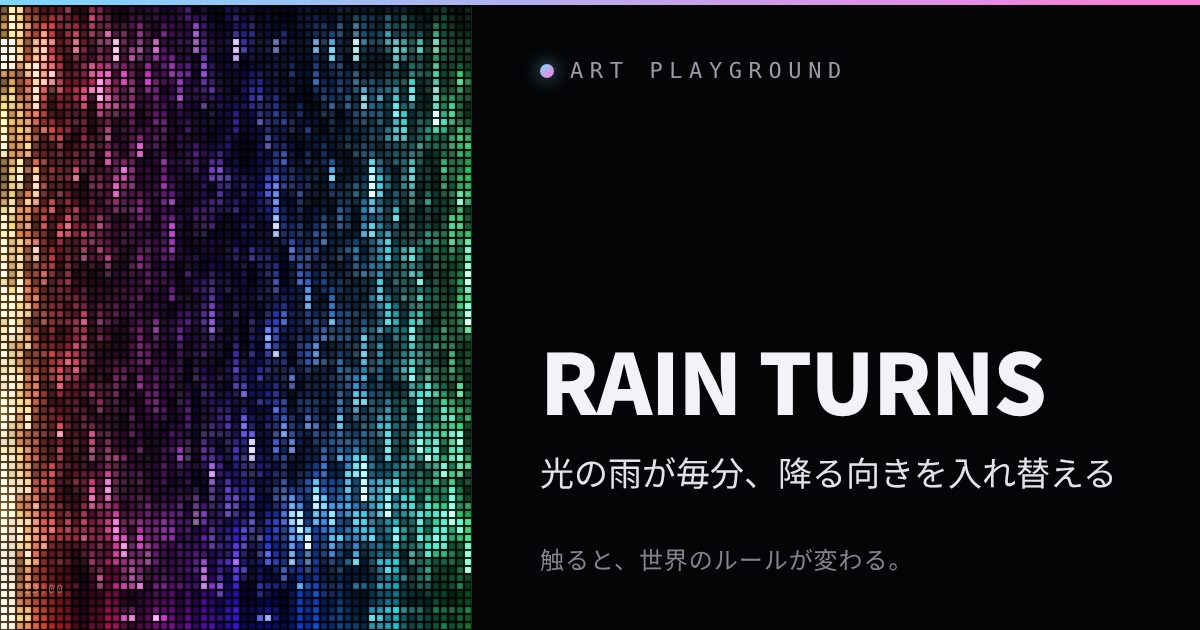
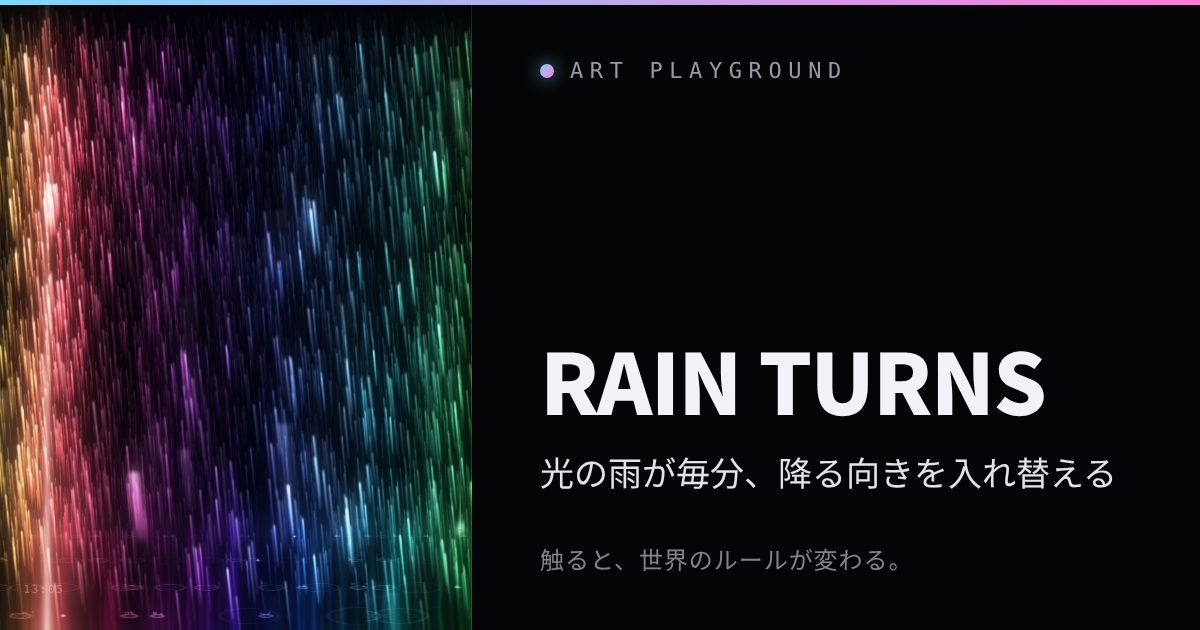
RAIN TURNS: dual mode with XXL/huge back cells over small or original front
?cell=dual&back=16|24&front=2|0. Removed the 12px-back variant.

Claude-Session: https://claude.ai/code/session_019C65K2NCmDDLr2MsA9MRnb

Changed region(s): [[0.0, 0.0, 0.4008, 1.0]]

diff --git a/art-v128-rain-turns.html b/art-v128-rain-turns.html
@@ -224,10 +224,10 @@ FS_HEAD+'uniform sampler2D u_a,u_b,u_c,u_m,u_l,u_l2;uniform vec2 u_inv;uniform f
 '   vq=vq*(1.-.45*min(1.,line+tick))+tc;}\n'+
 '  float glow=exp(-dot(f,f)*7.)*.35;\n'+                                          // 一粒ずつのにじみ
 '  c=vq*(led*1.6+glow)*seam+vec3(off*.8,off*.85,off)+texture(u_b,uv).rgb*.45+texture(u_c,uv).rgb*.6;\n'+
-'  if(u_dual>.5){vec2 cid2=floor(gl_FragCoord.xy/u_cell2);vec2 f2=fract(gl_FragCoord.xy/u_cell2)-.5;vec3 v2=texelFetch(u_l2,ivec2(cid2),0).rgb;\n'+
+' }else{float mk=smoothstep(.25,.6,texture(u_m,uv).r)*u_mk;vec3 a=texture(u_a,uv).rgb;float lm=max(max(a.r,a.g),a.b);c=mix(a,vec3(1.,.82,.45)*lm*1.35,mk)+texture(u_b,uv).rgb*.55+texture(u_c,uv).rgb*.8;}\n'+
+' if(u_dual>.5){vec2 cid2=floor(gl_FragCoord.xy/u_cell2);vec2 f2=fract(gl_FragCoord.xy/u_cell2)-.5;vec3 v2=texelFetch(u_l2,ivec2(cid2),0).rgb;\n'+
 '   float d2=max(abs(f2.x),abs(f2.y))*2.;float led2=smoothstep(.86,.62,d2)*(1.+.35*(1.-length(f2)*2.));float glow2=exp(-dot(f2,f2)*7.)*.35;\n'+
 '   vec3 back=v2*(led2*1.6+glow2)*.7;float fl=max(max(c.r,c.g),c.b);c+=back*(1.-clamp(fl*1.3,0.,1.));}\n'+
-' }else{float mk=smoothstep(.25,.6,texture(u_m,uv).r)*u_mk;vec3 a=texture(u_a,uv).rgb;float lm=max(max(a.r,a.g),a.b);c=mix(a,vec3(1.,.82,.45)*lm*1.35,mk)+texture(u_b,uv).rgb*.55+texture(u_c,uv).rgb*.8;}\n'+
 ' c=c/(1.+max(c-.8,0.)*.8);o=vec4(c,1.);}');
 // ---------- LEDの粒ごとの明るさ(1粒=1テクセル)。粒の中を9点で拾って平均と最大の間をとり、前のコマから滑らかにつなぐ(点くときは素早く、消えるときは少し残光) ----------
 var cellP=prog('#version 300 es\nlayout(location=0) in vec2 p;void main(){gl_Position=vec4(p,0.,1.);}',
@@ -329,7 +329,8 @@ function resize(){var s=dpr*qscale;W=Math.max(2,Math.round(innerWidth*s));H=Math
 addEventListener('resize',resize);resize();
 
 var hueBlk=null,hueT=0,hueV=0,rDir=1,rPh=0,phV=0,phH=0,dirV=1,dirH=1,wH=0,preV=0;var LED=Q.get('led')!=='0';
-var GRAIN=[8.4,12,16,24,4.2,2.1,0,2.1],GNAME=['LEDの粒: 大(約8px)','LEDの粒: 特大(約12px)','LEDの粒: 超特大(約16px)','LEDの粒: 巨大(約24px)','LEDの粒: 中(約4px)','LEDの粒: 小(約2px)','LEDなし(元の描き方)','LEDの粒: 奥=特大(約12px)・前=小(約2px)'],gi=0;   // 2026/11/28「あえて大きくした方がインパクトある」→ 既定は大   // 粒の大きさの見比べ(?cell=4/8/2/0 か下の▦ボタン)
+var GRAIN=[8.4,12,16,24,4.2,2.1,0,2.1],GNAME=['LEDの粒: 大(約8px)','LEDの粒: 特大(約12px)','LEDの粒: 超特大(約16px)','LEDの粒: 巨大(約24px)','LEDの粒: 中(約4px)','LEDの粒: 小(約2px)','LEDなし(元の描き方)','LEDの粒: 奥=超特大/巨大・前=小か元'],gi=0;   // 2026/11/28「あえて大きくした方がインパクトある」→ 既定は大   // 粒の大きさの見比べ(?cell=4/8/2/0 か下の▦ボタン)
+var dualBack=[16,24].indexOf(+Q.get('back'))>=0?+Q.get('back'):16,dualFront=Q.get('front')==='0'?0:2;   // 二重表示(?cell=dual)の奥の粒の大きさと、前(2=小・0=元)
 var gAuto=true,gOff=0,AUTO_G=[0,1,2,3,5,6];   // 2026/11/28「7分一周はいかんなー」→ 中(4px)を外して6分で1周(1時間でちょうど10周、毎時0分は大から)   // 2026/11/28「2と元も入れてよ」→ 小(2px)とLEDなしも順番に入れる
    // 2026/11/28「1分おきに大きさを自動で変更にして」→ 毎分、大→特大→超特大→巨大→中 の順に粒が変わる(▦で順番を1つ進める)
 (function(){var c=Q.get('cell');if(c!==null){var k={'8':0,'12':1,'16':2,'24':3,'4':4,'2':5,'0':6,'dual':7}[c];if(k!==undefined){gi=k;gAuto=false;}}})();   // LEDパネル表示(?led=0 で元の描き方)
@@ -384,16 +385,17 @@ function frame(now){
   pass(blurP,RT.sc,RT.q1,3/W,0,.15);pass(blurP,RT.q1,RT.q2,0,1.6/RT.q1.h,0);
   pass(blurP,RT.q2,RT.e1,2.2/RT.q2.w,0,0);pass(blurP,RT.e1,RT.e2,0,2.2/RT.e1.h,0);
   var cpx=Math.max(2,Math.round(GRAIN[gi]*W/innerWidth)),useLed=LED&&GRAIN[gi]>0;
-  var dual=(gi===7)&&useLed;   // 奥=特大(約12px)・前=小(約2px)を同じ画面に重ねる(?cell=dual)
-  if(useLed){runCell(cellSets[0],cpx,[1,1,0,0],dt);if(dual)runCell(cellSets[1],Math.max(2,Math.round(12*W/innerWidth)),[.82,.82,.09,.04],dt);}
+  if(gi===7)useLed=LED&&dualFront>0;var dual=(gi===7)&&LED;   // 奥=大きい粒・前=小(約2px)か元(LEDなし)を同じ画面に重ねる(?cell=dual&back=16|24&front=2|0。2026/11/28「特大と小は要らない」→奥は超特大(16)か巨大(24)だけ)
+  var bcpx=Math.max(2,Math.round(dualBack*W/innerWidth));
+  if(useLed)runCell(cellSets[0],cpx,[1,1,0,0],dt);if(dual)runCell(cellSets[1],bcpx,[.82,.82,.09,.04],dt);
   gl.bindFramebuffer(gl.FRAMEBUFFER,null);gl.viewport(0,0,W,H);gl.useProgram(compP.p);
   if(useLed){gl.activeTexture(gl.TEXTURE4);gl.bindTexture(gl.TEXTURE_2D,cellSets[0].rt[1-cellSets[0].idx].t);gl.uniform1i(compP.u.u_l,4);}
-  gl.uniform1f(compP.u.u_dual,dual?1:0);if(dual){gl.activeTexture(gl.TEXTURE5);gl.bindTexture(gl.TEXTURE_2D,cellSets[1].rt[1-cellSets[1].idx].t);gl.uniform1i(compP.u.u_l2,5);gl.uniform1f(compP.u.u_cell2,Math.max(2,Math.round(12*W/innerWidth)));}
+  gl.uniform1f(compP.u.u_dual,dual?1:0);if(dual){gl.activeTexture(gl.TEXTURE5);gl.bindTexture(gl.TEXTURE_2D,cellSets[1].rt[1-cellSets[1].idx].t);gl.uniform1i(compP.u.u_l2,5);gl.uniform1f(compP.u.u_cell2,bcpx);}
   gl.activeTexture(gl.TEXTURE0);gl.bindTexture(gl.TEXTURE_2D,RT.sc.t);gl.uniform1i(compP.u.u_a,0);
   gl.activeTexture(gl.TEXTURE1);gl.bindTexture(gl.TEXTURE_2D,RT.q2.t);gl.uniform1i(compP.u.u_b,1);
   gl.activeTexture(gl.TEXTURE2);gl.bindTexture(gl.TEXTURE_2D,RT.e2.t);gl.uniform1i(compP.u.u_c,2);
   gl.activeTexture(gl.TEXTURE3);gl.bindTexture(gl.TEXTURE_2D,maskTex);gl.uniform1i(compP.u.u_m,3);gl.uniform1f(compP.u.u_mk,maskTex?mkS:0);gl.uniform1f(compP.u.u_hue,hueV);gl.uniform1f(compP.u.u_t,t);gl.uniform1f(compP.u.u_mf,um);gl.uniform1f(compP.u.u_top,Math.round(46*W/innerWidth));gl.uniform1f(compP.u.u_px,W/innerWidth);
-  gl.uniform2f(compP.u.u_inv,1/W,1/H);gl.uniform1f(compP.u.u_cell,Math.max(2,Math.round(GRAIN[gi]*W/innerWidth)));gl.uniform1f(compP.u.u_led,(LED&&GRAIN[gi]>0)?1:0);gl.drawArrays(gl.TRIANGLE_STRIP,0,4);gl.activeTexture(gl.TEXTURE0);
+  gl.uniform2f(compP.u.u_inv,1/W,1/H);gl.uniform1f(compP.u.u_cell,Math.max(2,Math.round(GRAIN[gi]*W/innerWidth)));gl.uniform1f(compP.u.u_led,useLed?1:0);gl.drawArrays(gl.TRIANGLE_STRIP,0,4);gl.activeTexture(gl.TEXTURE0);
   frames++;acc+=dt;if(frames===90){if(acc/90>.021&&qscale>.6){qscale*=.85;resize();}frames=0;acc=0;}
   requestAnimationFrame(frame);}
 requestAnimationFrame(function(n){last=n;frame(n);});

diff --git a/CHANGELOG.md b/CHANGELOG.md
@@ -1,3 +1,4 @@
+- 2026-11-28 クロちゃん: RAIN TURNS(art-v128)の二重表示を、超特大(約16px)と巨大(約24px)を奥にして、前に小(約2px)か元(LEDなし)を重ねる4通りに(おっちゃん「超特大と巨大だけに2と元を重ねたパターンも欲しい」→「特大と小は要らない」)。`?cell=dual&back=16|24&front=2|0`(back省略=16、front省略=小)。直前に作った「奥=特大(12px)・前=小」は外した(奥の大きさは16と24だけ)。奥の粒の足し算を、前がLEDの粒でも元の描き方でも効くようにシェーダーの分岐の外へ移した。毎分の自動の順番(6分で1周)と▦ボタンは変えていない。確認: ヘッドレスChromium・390×844で4通りを並べて目で確認、コンソールエラーなし。ポスター・OGPカード・IG縦型カバーを作り直した。**スマホ実機での重さは未確認**(art-v128-rain-turns.html, posters/, og/, reel/, CHANGELOG.md)
 - 2026-11-28 クロちゃん: RAIN TURNS(art-v128)に「奥=特大・前=小」を同じ画面に重ねる粒の表示を追加(おっちゃん「特大と小は同じに描写できる？」→「同じ画面によ、奥に特大、前に小」)。`?cell=dual`で出す。前は小(約2px)の細かい雨、奥は同じ雨を少し拡大してずらし、特大(約12px)の粒で描いて前の雨の暗いところに透ける(前が明るい所は奥を弱める)。目盛り・光の柱・一滴は前の小の粒のもの。cellP(粒ごとの明るさ)に読み取り位置の変換(u_xf)を足し、粒の状態をセット(前・奥)に整理。**毎分の自動の順番(6分で1周)には入れていない**(7分1周がNGなので、どれと入れ替えるかおっちゃんの判断待ち)。▦ボタンの動きも変えていない。確認: ヘッドレスChromium・390×844で、?cell=dualと?cell=2を並べて目で確認、コンソールエラーなし、既定の表示で録画(mp4・720×1558)が通る。ポスター・OGPカード・IG縦型カバーはこの作品の分だけ作り直した。**スマホ実機での重さは未確認**(粒の計算の描画が1回増える。小さな描画先なので軽いはず)(art-v128-rain-turns.html, posters/, og/, reel/, CHANGELOG.md)
 - 2026-11-28 クロちゃん: BEAD CURTAINを採用・art-v129として昇格し、ギャラリーLOG先頭に追加、録画の対象にも追加(おっちゃん「これはこれで美しいね　採用で」「録画もね」。CURRENTの指定は無かったのでCURRENTはGLASS RELAYのまま)。`prototypes/bead-curtain.html`をコピーして、ap-kit.jsの相対パスをルート用に直し、冒頭に昇格の注記を追加(試作版は残す)。表示名はBEAD CURTAIN(元の仮名のまま)。LOGはRAIN TURNS(v128)の上。Published worksはRAIN TURNSの直後、`META`に操作ヒント「眺めるだけで光が糸を流れ落ちる。なぞると触れた糸に光が走る」、`REC_WORKS`に`art-v129-bead-curtain.html`、sitemap.xmlに`/art-v129-bead-curtain`を追加。`tools/poster-config.json`に`hide:#hint`・待ち3.5秒を1行追加(最初に出る操作説明がポスターに写らないように)。ポスター・OGPカード・IG縦型カバー(`reel/`)をこの作品の分だけ生成し、`gen_posters.py --check`・`gen_og.py --check`とも終了コード0(ポスターに文字は写っていないことを目視で確認)。確認: スマホ(Android Chrome)のUA・390×844のヘッドレスChromiumで、ギャラリーから`?open=`で開き、録画ボタンが出て、録画→停止でプレビューにmp4(720×1558・約3.9秒)ができ、作品と2行の透かしが映ることを確認。コンソールエラーは外部広告の読み込み失敗(テスト環境の制限)だけ。**スマホ実機での見た目・録画中の重さは未確認**(Canvas 2D、1フレームに糸約100本の玉を数千個描く。GPUなしの環境で約17fps。重い端末は糸の本数を自動で減らす。録画で重ければ`REC_WORKS`から外す)。メモ: `gen_og.py --reel --check`は、`reel/`に未登録の作品が多く(REC_WORKSなのにreel/に無いもの)終了コード1のまま。この昇格より前からの状態で、今回の作品の分はOK(art-v129-bead-curtain.html, prototypes/bead-curtain.html, index.html, posters/, og/, reel/, tools/poster-config.json, sitemap.xml, CHANGELOG.md)
 - 2026-11-28 クロちゃん: 新しい試作BEAD CURTAIN(仮、prototypes/bead-curtain.html)を追加(おっちゃん「(元動画と違くなったので)別作品としてやろうか」)。Starkapoo氏の元動画をフレーム解析して作りを写した: 細い糸が縦に並び糸の位置は動かない(ずれを測るとほぼ0)/糸の上に小さな縦長の玉が点線のように並ぶ/玉の明るい塊が糸ごとに違う速さでゆっくり流れ落ちる(降るのは光で、糸ではない)/奥にピントの外れた丸い光/画面中のくっきりした小さな火花/下ほど明るく、太い色の光の柱と下の虹のにじみ/色は横位置(左端=黄緑・橙→赤→マゼンタ→紫→青→シアン→右端=緑)。時計は元の「光の柱=分(横幅0〜59を1時間で左→右)・落ちる一滴=秒」と同じ考え方で、数字・文字は出さない(🕐でap-kitの時計)。✦=色をずらして光の塊を作り直す、↻=元に戻す、なぞると触れた糸に光が走る。色は20秒ごとに少しずつずれる。?t=HH:MM:SS、?hue=0〜1。Canvas 2D・Wake Lock。確認(ヘッドレスChromium・390×844・GPUなし): コンソールエラーなし、元動画と並べて目で比べて調整(最初は暗く粒がまばらだったので、糸を密に・玉を明るく・火花と光の柱を足した)、2枚の画面で動いていることを確認。GPUなしの環境では約17fpsだった(実機の値ではない)。奥の糸の玉と火花は間引いて軽くし、重い端末は糸の本数を自動で減らす。**スマホ実機での見た目・重さは未確認**(ギャラリー未登録・採用待ち。名前は仮)(prototypes/bead-curtain.html, CHANGELOG.md)
